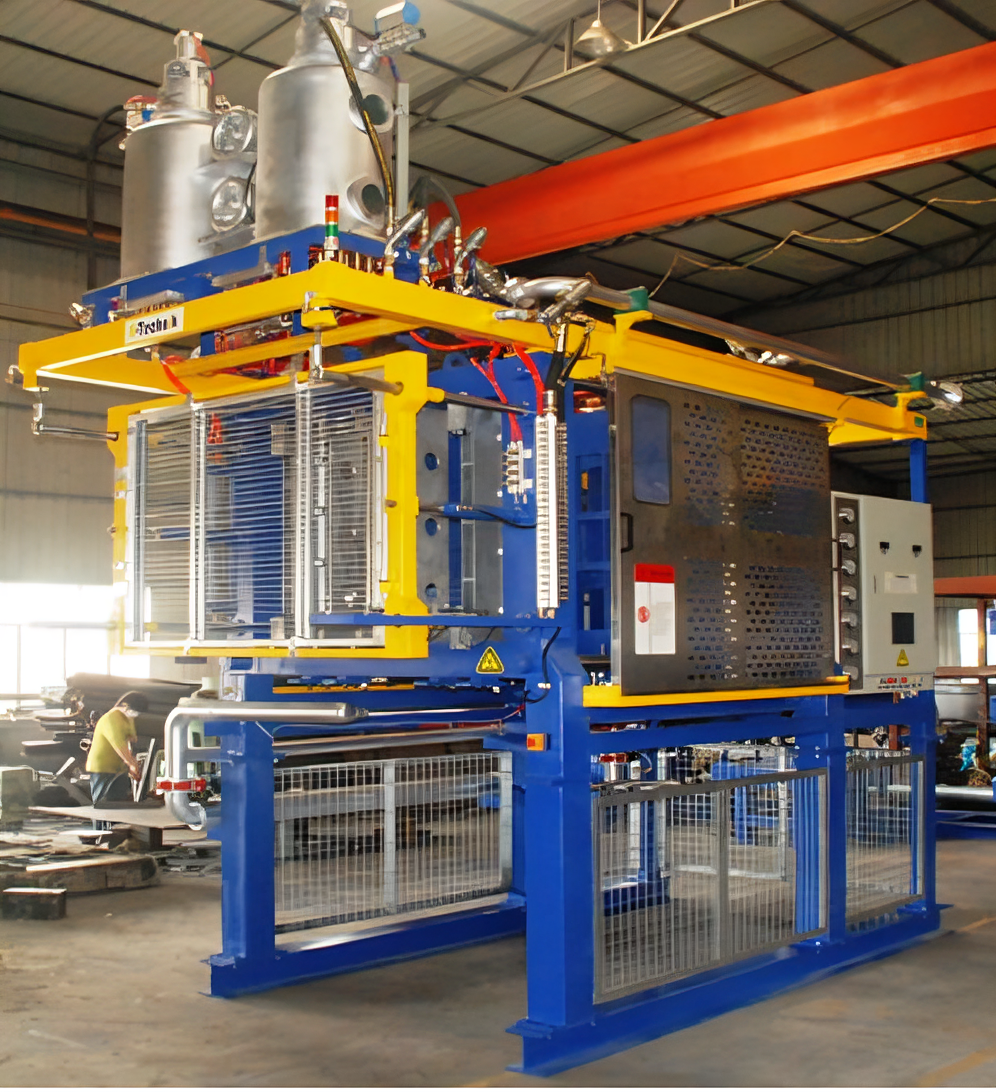
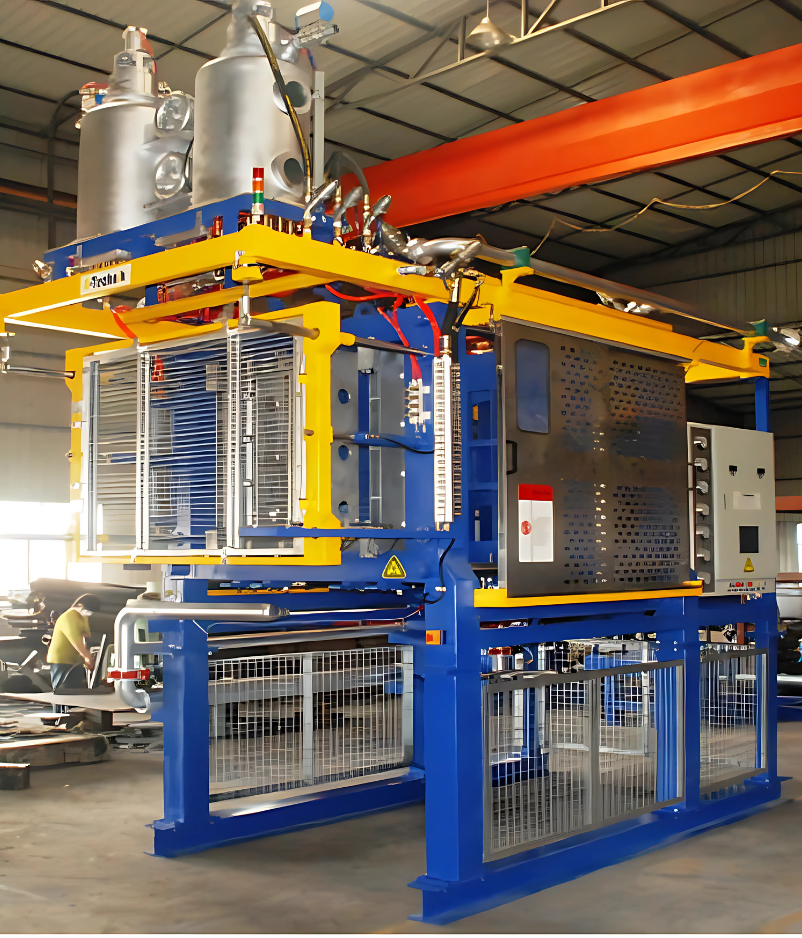
change the images

diff --git a/src/components/ContactUs.jsx b/src/components/ContactUs.jsx
@@ -1,5 +1,5 @@
 import React from "react";
-import { CForm, CFormLabel, CFormInput, CFormTextarea, CRow,CCol } from "@coreui/react";
+import { CForm, CFormLabel, CFormInput, CFormTextarea, CRow, CCol } from "@coreui/react";
 import { Button } from "@mui/material";
 
 const ContactUs = () => {
@@ -69,43 +69,51 @@ const ContactUs = () => {
             </Button>
           </div>
         </CForm>
+
         <hr />
+
         {/* Additional Contact Info */}
-        <div className="mt-12 text-center">
-          <h2 className="text-xl font-semibold text-gray-700 mb-4">Get in Touch</h2>
-          <p className="text-gray-600">
-            Phone: <a href="tel:+1234567890" className="text-indigo-600 hover:underline">9440058318,9704023786</a>
-          </p>
-          <p className="text-gray-600">
-            Email: <a href="mailto:info@example.com" className="text-indigo-600 hover:underline">Lotusindustries97@gmail.com</a>
-          </p>
-          <CRow>
-            <CCol xs={12}>
-          <p className="text-gray-600">
-            Address:
-            <br />
-            Factory Survey No. 6 & 16, Near Venkateswara Swami Temple,
-            <br />
-            Injapur Village, Hayathnagar
-            <br />
-            Telangana 500070
-          </p>
-          </CCol>
-          <CCol xs={12}>
-          <div className="mt-6 flex justify-center">
+        <div className="mt-12">
+          <h2 className="text-xl font-semibold text-center text-gray-700 mb-4">Get in Touch</h2>
+          <CRow className="gap-6 items-start">
+            {/* Address */}
+            <CCol>
+              <p className="text-gray-600 text-lg">
+                <strong>Phone:</strong>{" "}
+                <a href="tel:+1234567890" className="text-indigo-600 hover:underline">
+                  9440058318, 9704023786
+                </a>
+              </p>
+              <p className="text-gray-600 text-lg">
+                <strong>Email:</strong>{" "}
+                <a href="mailto:info@example.com" className="text-indigo-600 hover:underline">
+                  Lotusindustries97@gmail.com
+                </a>
+              </p>
+              <p className="text-gray-600 text-lg">
+                <strong>Address:</strong>
+                <br />
+                Factory Survey No. 6 & 16, Near Venkateswara Swami Temple,
+                <br />
+                Injapur Village, Hayathnagar
+                <br />
+                Telangana 500070
+              </p>
+            </CCol>
+
             {/* Google Map */}
-            <iframe
-              src="https://www.google.com/maps/embed?pb=!1m18!1m12!1m3!1d4483.06817020991!2d78.59284804700515!3d17.306102579209234!2m3!1f0!2f0!3f0!3m2!1i1024!2i768!4f13.1!3m3!1m2!1s0x3bcba133ca8480d5%3A0x42a9d665bca3c5d6!2sLotus%20Industries!5e0!3m2!1sen!2sin!4v1735030055748!5m2!1sen!2sin"
-              width="600"
-              height="450"
-              style={{ border: 0 }}
-              allowFullScreen=""
-              loading="lazy"
-              referrerPolicy="no-referrer-when-downgrade"
-              title="Lotus Industries Location"
-            ></iframe>
-          </div>
-          </CCol>
+            <CCol>
+              <iframe
+                src="https://www.google.com/maps/embed?pb=!1m18!1m12!1m3!1d4483.06817020991!2d78.59284804700515!3d17.306102579209234!2m3!1f0!2f0!3f0!3m2!1i1024!2i768!4f13.1!3m3!1m2!1s0x3bcba133ca8480d5%3A0x42a9d665bca3c5d6!2sLotus%20Industries!5e0!3m2!1sen!2sin!4v1735030055748!5m2!1sen!2sin"
+                width="100%"
+                height="300"
+                style={{ border: 0 }}
+                allowFullScreen=""
+                loading="lazy"
+                referrerPolicy="no-referrer-when-downgrade"
+                title="Lotus Industries Location"
+              ></iframe>
+            </CCol>
           </CRow>
         </div>
       </div>

diff --git a/src/components/Home.jsx b/src/components/Home.jsx
@@ -14,7 +14,7 @@ import { motion } from "framer-motion";
 
 // Placeholder image URLs
 const ProductionImg1 ="Images/factory_1.png";
-const ProductionImg2 ="Images/factory_2.png";
+const ProductionImg2 ="Images/factory.png";
 const ProductionImg3 ="Images/factory_3.png";
 const placeholder = "Images/factory_4.jpg";
 
